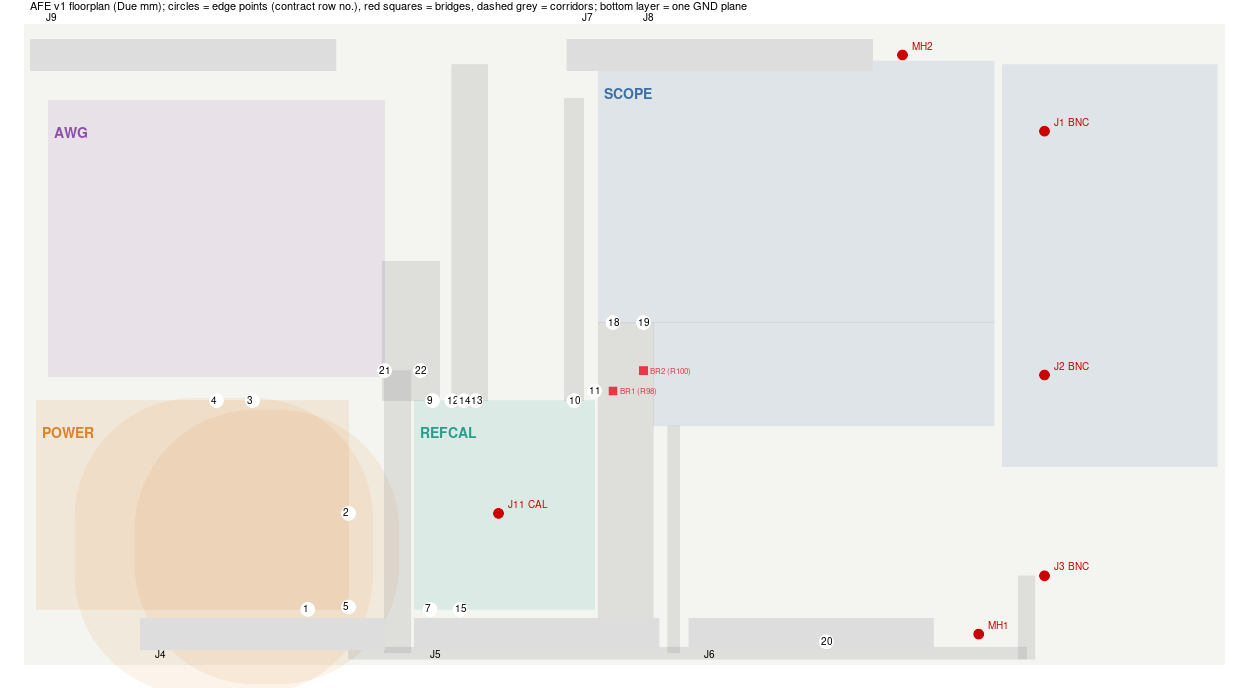
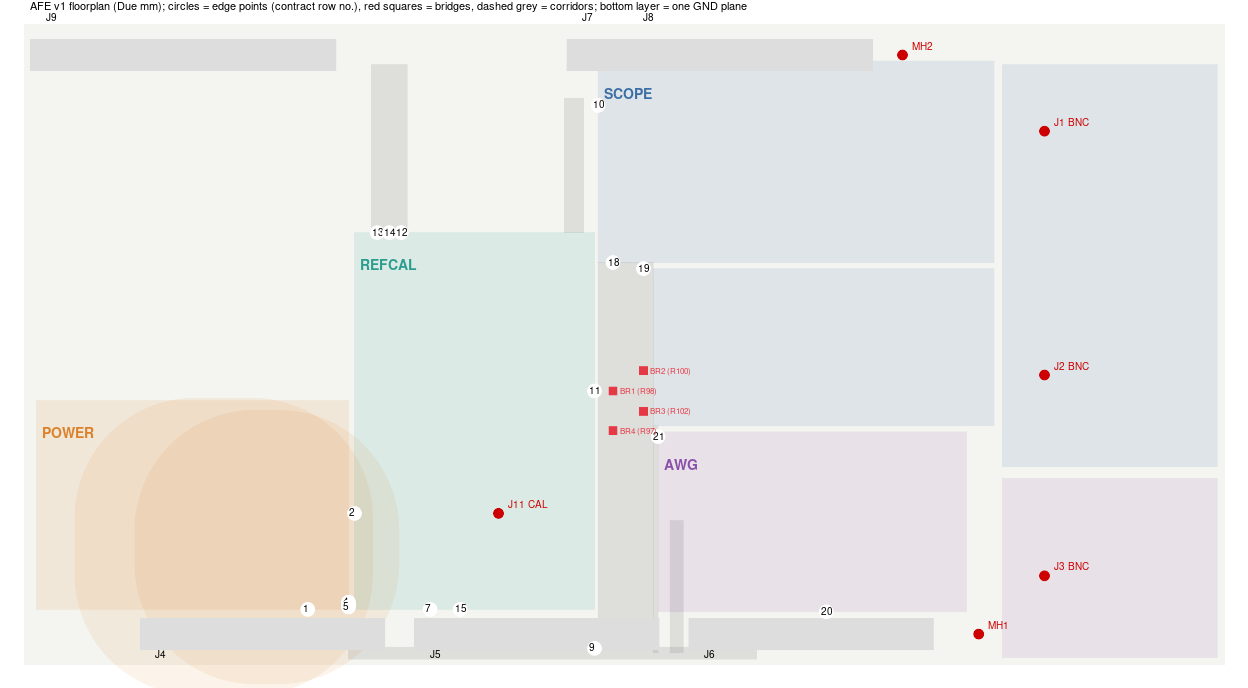
hardware: redo the AFE v1 contract with the AWG east
The spec lead rejected the west AWG: LR-7 keeps the AWG current loop
and its 50 ohm return in its own zone. Back to v2's arrangement: AWG
beside J3, VNEG, +3V3A and the VREF offset branch on the strip lanes
under the pad rows, and four 0603 0R bridges over the A1/A0 lines
(VREF to CH2 and the AWG_BNC sense node), no hop, no 1206.

Claude-Session: https://claude.ai/code/session_01GL7oYDXFNtALxKUhyZb7As

diff --git a/hardware/afe-proto/kicad/floorplan.py b/hardware/afe-proto/kicad/floorplan.py
@@ -13,20 +13,18 @@ X0, X1, Y0, Y1 = 17.0, 117.0, 0.0, 53.34
 # block -> list of fence rectangles (x0, y0, x1, y1); a block agent places and routes only inside its fences
 FENCES = {
     'POWER': [(18.0, 4.6, 44.0, 22.0)],
-    'REFCAL': [(49.5, 4.6, 64.5, 22.0)],
-    'AWG': [(19.0, 24.0, 47.0, 47.0)],
-    'SCOPE': [(64.8, 28.5, 97.8, 50.3), (69.4, 19.9, 97.8, 28.5), (98.5, 16.5, 116.4, 50.0)],
+    'REFCAL': [(44.5, 4.6, 64.5, 36.0)],
+    'SCOPE': [(64.8, 33.5, 97.8, 50.3), (69.4, 19.9, 97.8, 33.0), (98.5, 16.5, 116.4, 50.0)],
+    'AWG': [(69.8, 4.4, 95.5, 19.4), (98.5, 0.6, 116.4, 15.5)],
 }
 # corridors: copper owned by a block that runs outside its fence
 CORRIDORS = {
-    'WALL (SCOPE: A1 x 66.04, A0 x 68.58, y 2.54..38; the two VREF D2 bridges)': (64.8, 2.0, 69.4, 28.5),
-    'STRIP lanes under the ADC/PWM pad rows (y 0.55 AWG_BNC to J3, 0.95 +3V3A to SCOPE, 1.35 DAC0; 0.2 wide, 0.2 gap; pad edge 1.69)': (44.0, 0.45, 100.5, 1.45),
-    'AWG header-gap riser (x 47.6 DAC0, x 48.6 AWG_BNC, y 1.35..24.5)': (47.0, 1.0, 49.2, 24.5),
-    'VREF C lane (REFCAL: x 51.0 north to y 33.0, then west to x 47.0)': (46.8, 22.0, 51.6, 33.6),
-    'I2C/AREF lanes (REFCAL: x 53.0, 54.0, 55.0 north, then west along y 47.5, 48.5, 49.4)': (52.6, 22.0, 55.6, 50.0),
-    'QUIET VREF trunk (REFCAL: x 62.8 north to y 46.6, then east to x 75.8)': (62.0, 22.0, 63.6, 47.2),
-    'SCOPE +3V3A riser (POWER via the strip lane, then x 71.1 north from y 1.0 to y 19.9)': (70.6, 1.0, 71.6, 19.9),
-    'AWG_BNC lane to J3 (AWG via the strip lane y 0.55 east, then x 100.5 north to y 7.4)': (99.8, 0.45, 101.2, 7.4),
+    'WALL (SCOPE: A1 x 66.04, A0 x 68.58, y 2.54..38; the four wall bridges)': (64.8, 2.0, 69.4, 33.5),
+    'STRIP lanes under the ADC/PWM pad rows (POWER, REFCAL: y 0.55 VNEG outermost, 0.95 +3V3A, 1.35 VREF branch C innermost; 0.2 wide, 0.2 gap; pad edge 1.69, lane top 1.45)': (44.0, 0.45, 78.0, 1.45),
+    'AWG riser (x 71.33: the three strip lanes turn north to U3 and the offset filter)': (70.8, 1.0, 71.9, 12.0),
+    'SCOPE +3V3A riser (x 69.6, y 1.0 to 19.9, between the wall and the AWG fence)': (69.4, 1.0, 69.8, 19.9),
+    'I2C/AREF lanes (REFCAL: x 46.4, 47.4, 48.4 north, then west along y 47.5, 48.5, 49.4)': (45.9, 36.0, 48.9, 50.0),
+    'QUIET VREF trunk (REFCAL: x 62.8 north to y 46.6, then east to x 75.8)': (62.0, 36.0, 63.6, 47.2),
 }
 # LR-5: 10 mm from the courtyards of U7 and C31 (bounding boxes from the v1 board, Due mm; courtyard margin included)
 KEEPOUT = [(31.2, 7.5, 36.0, 12.2), (36.2, 8.4, 38.2, 11.2)]
@@ -54,33 +52,34 @@ def row(net, frm, to, pt, lw, bridge, owner, note):
 
 
 row('+5V_DUE', 'EDGE', 'POWER', (40.6, 4.6), 'F 0.3', '', 'POWER', 'J4.5 (40.64, 2.54) north to R27/R26 side (38.1, 6.0) and on to R70')
-row('+3V3A to REFCAL', 'POWER', 'REFCAL', (44.0, 12.6), 'F 0.3', '', 'POWER up to the edge, REFCAL after', 'one trunk east to U8.1 and the ADS (VDD, decoupling, pull-ups)')
-row('+3V3A to AWG', 'POWER', 'AWG', (36.0, 22.0), 'F 0.3', '', 'POWER', 'north from the OUT+ star to U3.8 and its 100 nF (R93 side); own branch')
-row('VNEG', 'POWER', 'AWG', (33.0, 22.0), 'F 0.3', '', 'POWER', 'north from the OUT- star to U3.4 and its 100 nF at the pin')
-row('+3V3A to SCOPE', 'POWER', 'SCOPE', (44.0, 4.8), 'F 0.2, strip lane y 0.95', '', 'POWER up to the edge, SCOPE after', 'lane east under the pad rows, then riser x 71.1 north to the dual V+ and the clamps (SCOPE places a branch to D5/D6.2); no bridge')
+row('+3V3A to REFCAL', 'POWER', 'REFCAL', (44.5, 12.6), 'F 0.3', '', 'POWER up to the edge, REFCAL after', 'one trunk east to U8.1 and the ADS (VDD, decoupling, pull-ups)')
+row('+3V3A to AWG', 'POWER', 'AWG', (44.0, 5.0), 'F 0.2, strip lane y 0.95', '', 'POWER', 'lane east to the AWG riser (x 71.33), U3.8 and its 100 nF; own branch, never touches the quiet branch')
+row('+3V3A to SCOPE', 'POWER', 'SCOPE', (44.0, 5.2), 'F 0.2, strip lane y 0.95 then riser x 69.6', '', 'POWER up to the edge, SCOPE after', 'the same lane, a branch north at x 69.6 between the wall and the AWG fence to the dual V+ and the clamps; no bridge (the alternative is two more bridges at y 24.5)')
+row('VNEG', 'POWER', 'AWG', (44.0, 4.8), 'F 0.2, strip lane y 0.55', '', 'POWER', 'lane east, riser x 71.33, U3.4 and its 100 nF at the pin; TP VNEG')
 row('GND', 'all', 'all', 'plane', 'B.Cu pour, one piece', '', 'integrator', 'every GND pad has its own via; no cut, no bottom signal copper anywhere')
 row('VREF branch A: precision readers', 'REFCAL', 'EDGE', (50.8, 4.6), 'F 0.2', '', 'REFCAL', 'U8 pin 2 to J5.1 (A7 pad, 50.8, 2.54) and the ladder top R50.2; Kelvin from the pin, own copper (LR-8)')
 row('VREF branch B: ADS AIN0', 'REFCAL', 'REFCAL', ('inside', ), 'F 0.2', '', 'REFCAL', 'U8 pin to U9.4 and C26; own copper (LR-8)')
-row('VREF branch C: AWG offset', 'REFCAL', 'AWG', (51.0, 22.0), 'F 0.2', '', 'REFCAL up to the edge, AWG after', 'U8 pin north x 51.0 to y 33, west to R93.1 (offset filter); own copper (LR-8)')
-row('VREF branch D1: scope CH1 leg + sense tie', 'REFCAL', 'SCOPE', (62.8, 22.0), 'F 0.2', '', 'REFCAL up to the edge, SCOPE after', 'CH1 leg R14 and the sense tie R90 (in REFCAL): quiet trunk x 62.8 north, y 46.6 east')
-row('VREF branch D2: scope CH2 leg', 'REFCAL', 'SCOPE', (64.5, 22.8), 'F 0.2', 'BR1 over A1, BR2 over A0', 'REFCAL up to the edge, SCOPE after', 'spur off the quiet trunk (62.8, 22.8) to BR1, BR2, R16.2; separate from the CH1 leg (LR-8)')
-row('AREF', 'REFCAL', 'EDGE', (52.6, 22.0), 'F 0.2', '', 'REFCAL', 'R81.2 north x 52.6, west y 49.4 to J9.8 (23.876, 50.8); unfitted part')
-row('SCL', 'REFCAL', 'EDGE', (54.6, 22.0), 'F 0.2', '', 'REFCAL', 'U9.10 north x 54.6, west y 47.5 to J9.10 (18.796, 50.8)')
-row('SDA', 'REFCAL', 'EDGE', (53.6, 22.0), 'F 0.2', '', 'REFCAL', 'U9.9 north x 53.6, west y 48.5 to J9.9 (21.336, 50.8)')
+row('VREF branch C: AWG offset', 'REFCAL', 'AWG', (64.5, 1.35), 'F 0.2, strip lane y 1.35', '', 'REFCAL up to the edge, AWG after', 'U8 pin to the strip lane, east, riser x 71.33 to R93.1 (offset filter); own copper (LR-8)')
+row('VREF branch D1: scope CH1 leg + sense tie', 'REFCAL', 'SCOPE', (64.8, 46.6), 'F 0.2', '', 'REFCAL up to the edge, SCOPE after', 'CH1 leg R14 and the sense tie R90 (in REFCAL): quiet trunk x 62.8 north, y 46.6 east')
+row('VREF branch D2: scope CH2 leg', 'REFCAL', 'SCOPE', (64.5, 22.8), 'F 0.2', 'BR1 over A1, BR2 over A0', 'REFCAL up to the edge, SCOPE after', 'spur off the quiet trunk (62.8, 22.8) to BR1, BR2, R16.2 (VREF_P); crosses the wall, separate from the CH1 leg row above (LR-8)')
+row('AREF', 'REFCAL', 'EDGE', (48.4, 36.0), 'F 0.2', '', 'REFCAL', 'R81.2 north x 48.4, west y 49.4 to J9.8 (23.876, 50.8); unfitted part')
+row('SCL', 'REFCAL', 'EDGE', (46.4, 36.0), 'F 0.2', '', 'REFCAL', 'U9.10 north x 46.4, west y 47.5 to J9.10 (18.796, 50.8)')
+row('SDA', 'REFCAL', 'EDGE', (47.4, 36.0), 'F 0.2', '', 'REFCAL', 'U9.9 north x 47.4, west y 48.5 to J9.9 (21.336, 50.8)')
 row('TAP1..TAP5', 'EDGE', 'REFCAL', (53.3, 4.6), 'F 0.2', '', 'REFCAL', 'J5.2..J5.6 (x 53.34 .. 63.5) up to the ladder (y 6..8.2); TAP3/TAP4 on to J11 and the ADS')
-row('TAP3 / TAP4 to J11 and the ADS', 'REFCAL', 'REFCAL', ('inside', ), 'F 0.2', '', 'REFCAL', 'short, inside the fence: J11 and U9 stand directly above the ladder; nothing crosses them')
+row('TAP3 / TAP4 to J11 and the ADS', 'REFCAL', 'REFCAL', ('inside', ), 'F 0.2', '', 'REFCAL', 'inside the fence; nothing of another block crosses them')
 row('SNS_B', 'REFCAL', 'REFCAL', ('inside', ), 'F 0.2, sense guard and pair rule', '', 'REFCAL', 'R92 and R90 to J11.2; matched to its pair partner, away from the AWG output')
-row('A1', 'SCOPE', 'EDGE', (66.04, 28.5), 'F 0.2', '', 'SCOPE', 'D5/R55.2 down x 66.04 to J5.7 (66.04, 2.54); no via, top only (LR-4)')
-row('A0', 'SCOPE', 'EDGE', (68.58, 28.5), 'F 0.2', '', 'SCOPE', 'D6/R56.2 down x 68.58 to J5.8 (68.58, 2.54); no via, top only (LR-4)')
-row('DAC0', 'EDGE', 'AWG', (83.82, 1.9), 'F 0.2, strip lane y 1.35', '', 'AWG', 'J6.5 (83.82, 2.54) down to the lane, west to x 47.6, north through the header gap to R54.1 (AWG pocket)')
-row('AWG_BNC to J3', 'AWG', 'EDGE', (47.0, 24.5), 'F 0.2, strip lane y 0.55', '', 'AWG', 'R51/R88 (back termination, in AWG) to x 48.6, south through the header gap, east along the lane to x 100.5, north to J3 (102, 7.4)')
-row('AWG_BNC sense node', 'AWG', 'REFCAL', (50.0, 24.5), 'F 0.2 guard + pair rule', '', 'AWG up to the edge, REFCAL after', 'from R51/R88 east y 25 to x 50.0, south to R7.1; short, no wall crossing')
+row('A1', 'SCOPE', 'EDGE', (66.04, 33.5), 'F 0.2', '', 'SCOPE', 'D5/R55.2 down x 66.04 to J5.7 (66.04, 2.54); no via, top only (LR-4)')
+row('A0', 'SCOPE', 'EDGE', (68.58, 33.0), 'F 0.2', '', 'SCOPE', 'D6/R56.2 down x 68.58 to J5.8 (68.58, 2.54); no via, top only (LR-4)')
+row('DAC0', 'EDGE', 'AWG', (83.82, 4.4), 'F 0.2', '', 'AWG', 'J6.5 (83.82, 2.54) straight up to R54 and pin 5; short')
+row('AWG_BNC (sense node)', 'AWG', 'REFCAL', (69.8, 19.0), 'F 0.2 guard + pair rule', 'BR3 over A0, BR4 over A1', 'AWG up to the edge, REFCAL after', 'from R51/R88 at the BNC to R7.1 across the wall (AWG_I is the island between the bridges)')
 row('AWG supply decoupling parts', 'AWG', 'AWG', ('inside', ), '', '', 'AWG', 'V+ and V- decoupling at pins 8 and 4; INV is a short top trace, Rg2 (R33) straddles the BIN stub as a bridge; no net leaves the pocket except those listed')
 row('SCOPE dual (U1)', 'SCOPE', 'SCOPE', ('inside', ), '', '', 'SCOPE (one agent for both channels)', 'U1 is shared; CH1 and CH2 are labelled on the silk beside its halves, CH2 laid out in CH1\'s pattern, mirrored')
 
 BRIDGES = [  # ref, nets, at (x, y), crosses
     ('BR1 (R98)', 'VREF / VREF_M', (66.04, 22.8), 'the A1 line (x 66.04)'),
-    ('BR2 (R100)', 'VREF_M / VREF_X', (68.58, 24.5), 'the A0 line (x 68.58)'),
+    ('BR2 (R100)', 'VREF_M / VREF_P', (68.58, 24.5), 'the A0 line (x 68.58)'),
+    ('BR3 (R102)', 'AWG_I / AWG_BNC', (68.58, 21.1), 'the A0 line (x 68.58)'),
+    ('BR4 (R97)', 'AWG_S / AWG_I', (66.04, 19.5), 'the A1 line (x 66.04)'),
 ]
 
 COL = {'POWER': '#d9822b', 'REFCAL': '#2a9d8f', 'SCOPE': '#3a6ea5', 'AWG': '#8a4fa8'}
@@ -150,11 +149,12 @@ def md():
         p = f'({at[0]}, {at[1]})' if len(at) == 2 else f'in {at[0]}, to be placed'
         out.append(f'| {ref} | {nets} | {p} | {crosses} |')
     out += ['', 'Notes:',
-            '- v1 moves the AWG to the west half: its VNEG, +3V3A and VREF come from POWER and REFCAL without crossing the A1/A0 wall, so the only wall crossings are the two VREF D2 bridges (BR1, BR2). The price is two long signal lanes under the pad rows (DAC0 in, AWG_BNC out to J3) and one more, +3V3A to SCOPE: three strip lanes, the same count as v2.',
-            '- The 8 x 0603 chain plan of the first fence page is withdrawn: it was for the AWG staying east. R33 (Rg2) in the AWG straddles the BIN stub, so INV needs no hop and no bridge.',
-            '- Keep-out (LR-5) = the courtyards of U7 and C31 inflated by 10 mm; REFCAL starts at x 49.5, 13 mm from C31.',
-            '- Strip lanes: pad edge of J4/J5/J6 is y 1.69 (1.7 mm pads), lane top 1.45, gap 0.24; outermost lane edge y 0.45, 0.45 mm to the outline (check on the board).',
-            '- Test points (one per block key node, on the existing path, no stub on A1/A0): TP A1 and A0 on the SCOPE column, AWG_OUT before R51/R88, +5V_DUE, +5V_F, +3V3A, VNEG, VREF, GND: 9, three new.']
+            '- v2 arrangement (AWG east beside J3), as the spec lead ruled: LR-7 keeps the AWG current loop and the 50 ohm return in its own zone. Four 0603 0R bridges (existing type), no hop, no 1206.',
+            '- The first v1 contract moved the AWG west and is withdrawn: it put the AWG output lane 95 mm past the TAP and A pads.',
+            '- Pad edges of J4/J5/J6 are y 1.69 (1.7 mm pads): inner lane top 1.45, gap 0.24; outer lane edge 0.45 mm to the outline. Check on the v1 board.',
+            '- Keep-out (LR-5) = the courtyards of U7 and C31 inflated by 10 mm. Sensitive copper in REFCAL stays east of x 48.6 between y 9 and y 19.',
+            '- The only +3V3A route to SCOPE with no bridge is the riser at x 69.6, 1.0 mm from A0 (a supply, quiet); the alternative is two more bridges at y 24.5 (to the spec lead).',
+            '- Test points: one per block key node, on the existing path, no stub on A1/A0: A1, A0, AWG_OUT before R51/R88, +5V_DUE, +5V_F, +3V3A, VNEG, VREF, GND = 9, three new.']
     return '\n'.join(out)
 
 

diff --git a/hardware/afe-proto/kicad/floorplan_table.md b/hardware/afe-proto/kicad/floorplan_table.md
@@ -1,38 +1,40 @@
 | # | net | from -> to | edge point (x, y) | layer / width | bridge | owner | note |
 |---|---|---|---|---|---|---|---|
 | 1 | +5V_DUE | EDGE -> POWER | (40.6, 4.6) | F 0.3 |  | POWER | J4.5 (40.64, 2.54) north to R27/R26 side (38.1, 6.0) and on to R70 |
-| 2 | +3V3A to REFCAL | POWER -> REFCAL | (44.0, 12.6) | F 0.3 |  | POWER up to the edge, REFCAL after | one trunk east to U8.1 and the ADS (VDD, decoupling, pull-ups) |
-| 3 | +3V3A to AWG | POWER -> AWG | (36.0, 22.0) | F 0.3 |  | POWER | north from the OUT+ star to U3.8 and its 100 nF (R93 side); own branch |
-| 4 | VNEG | POWER -> AWG | (33.0, 22.0) | F 0.3 |  | POWER | north from the OUT- star to U3.4 and its 100 nF at the pin |
-| 5 | +3V3A to SCOPE | POWER -> SCOPE | (44.0, 4.8) | F 0.2, strip lane y 0.95 |  | POWER up to the edge, SCOPE after | lane east under the pad rows, then riser x 71.1 north to the dual V+ and the clamps (SCOPE places a branch to D5/D6.2); no bridge |
+| 2 | +3V3A to REFCAL | POWER -> REFCAL | (44.5, 12.6) | F 0.3 |  | POWER up to the edge, REFCAL after | one trunk east to U8.1 and the ADS (VDD, decoupling, pull-ups) |
+| 3 | +3V3A to AWG | POWER -> AWG | (44.0, 5.0) | F 0.2, strip lane y 0.95 |  | POWER | lane east to the AWG riser (x 71.33), U3.8 and its 100 nF; own branch, never touches the quiet branch |
+| 4 | +3V3A to SCOPE | POWER -> SCOPE | (44.0, 5.2) | F 0.2, strip lane y 0.95 then riser x 69.6 |  | POWER up to the edge, SCOPE after | the same lane, a branch north at x 69.6 between the wall and the AWG fence to the dual V+ and the clamps; no bridge (the alternative is two more bridges at y 24.5) |
+| 5 | VNEG | POWER -> AWG | (44.0, 4.8) | F 0.2, strip lane y 0.55 |  | POWER | lane east, riser x 71.33, U3.4 and its 100 nF at the pin; TP VNEG |
 | 6 | GND | all -> all | plane | B.Cu pour, one piece |  | integrator | every GND pad has its own via; no cut, no bottom signal copper anywhere |
 | 7 | VREF branch A: precision readers | REFCAL -> EDGE | (50.8, 4.6) | F 0.2 |  | REFCAL | U8 pin 2 to J5.1 (A7 pad, 50.8, 2.54) and the ladder top R50.2; Kelvin from the pin, own copper (LR-8) |
 | 8 | VREF branch B: ADS AIN0 | REFCAL -> REFCAL | inside the fence | F 0.2 |  | REFCAL | U8 pin to U9.4 and C26; own copper (LR-8) |
-| 9 | VREF branch C: AWG offset | REFCAL -> AWG | (51.0, 22.0) | F 0.2 |  | REFCAL up to the edge, AWG after | U8 pin north x 51.0 to y 33, west to R93.1 (offset filter); own copper (LR-8) |
-| 10 | VREF branch D1: scope CH1 leg + sense tie | REFCAL -> SCOPE | (62.8, 22.0) | F 0.2 |  | REFCAL up to the edge, SCOPE after | CH1 leg R14 and the sense tie R90 (in REFCAL): quiet trunk x 62.8 north, y 46.6 east |
-| 11 | VREF branch D2: scope CH2 leg | REFCAL -> SCOPE | (64.5, 22.8) | F 0.2 | BR1 over A1, BR2 over A0 | REFCAL up to the edge, SCOPE after | spur off the quiet trunk (62.8, 22.8) to BR1, BR2, R16.2; separate from the CH1 leg (LR-8) |
-| 12 | AREF | REFCAL -> EDGE | (52.6, 22.0) | F 0.2 |  | REFCAL | R81.2 north x 52.6, west y 49.4 to J9.8 (23.876, 50.8); unfitted part |
-| 13 | SCL | REFCAL -> EDGE | (54.6, 22.0) | F 0.2 |  | REFCAL | U9.10 north x 54.6, west y 47.5 to J9.10 (18.796, 50.8) |
-| 14 | SDA | REFCAL -> EDGE | (53.6, 22.0) | F 0.2 |  | REFCAL | U9.9 north x 53.6, west y 48.5 to J9.9 (21.336, 50.8) |
+| 9 | VREF branch C: AWG offset | REFCAL -> AWG | (64.5, 1.35) | F 0.2, strip lane y 1.35 |  | REFCAL up to the edge, AWG after | U8 pin to the strip lane, east, riser x 71.33 to R93.1 (offset filter); own copper (LR-8) |
+| 10 | VREF branch D1: scope CH1 leg + sense tie | REFCAL -> SCOPE | (64.8, 46.6) | F 0.2 |  | REFCAL up to the edge, SCOPE after | CH1 leg R14 and the sense tie R90 (in REFCAL): quiet trunk x 62.8 north, y 46.6 east |
+| 11 | VREF branch D2: scope CH2 leg | REFCAL -> SCOPE | (64.5, 22.8) | F 0.2 | BR1 over A1, BR2 over A0 | REFCAL up to the edge, SCOPE after | spur off the quiet trunk (62.8, 22.8) to BR1, BR2, R16.2 (VREF_P); crosses the wall, separate from the CH1 leg row above (LR-8) |
+| 12 | AREF | REFCAL -> EDGE | (48.4, 36.0) | F 0.2 |  | REFCAL | R81.2 north x 48.4, west y 49.4 to J9.8 (23.876, 50.8); unfitted part |
+| 13 | SCL | REFCAL -> EDGE | (46.4, 36.0) | F 0.2 |  | REFCAL | U9.10 north x 46.4, west y 47.5 to J9.10 (18.796, 50.8) |
+| 14 | SDA | REFCAL -> EDGE | (47.4, 36.0) | F 0.2 |  | REFCAL | U9.9 north x 47.4, west y 48.5 to J9.9 (21.336, 50.8) |
 | 15 | TAP1..TAP5 | EDGE -> REFCAL | (53.3, 4.6) | F 0.2 |  | REFCAL | J5.2..J5.6 (x 53.34 .. 63.5) up to the ladder (y 6..8.2); TAP3/TAP4 on to J11 and the ADS |
-| 16 | TAP3 / TAP4 to J11 and the ADS | REFCAL -> REFCAL | inside the fence | F 0.2 |  | REFCAL | short, inside the fence: J11 and U9 stand directly above the ladder; nothing crosses them |
+| 16 | TAP3 / TAP4 to J11 and the ADS | REFCAL -> REFCAL | inside the fence | F 0.2 |  | REFCAL | inside the fence; nothing of another block crosses them |
 | 17 | SNS_B | REFCAL -> REFCAL | inside the fence | F 0.2, sense guard and pair rule |  | REFCAL | R92 and R90 to J11.2; matched to its pair partner, away from the AWG output |
-| 18 | A1 | SCOPE -> EDGE | (66.04, 28.5) | F 0.2 |  | SCOPE | D5/R55.2 down x 66.04 to J5.7 (66.04, 2.54); no via, top only (LR-4) |
-| 19 | A0 | SCOPE -> EDGE | (68.58, 28.5) | F 0.2 |  | SCOPE | D6/R56.2 down x 68.58 to J5.8 (68.58, 2.54); no via, top only (LR-4) |
-| 20 | DAC0 | EDGE -> AWG | (83.82, 1.9) | F 0.2, strip lane y 1.35 |  | AWG | J6.5 (83.82, 2.54) down to the lane, west to x 47.6, north through the header gap to R54.1 (AWG pocket) |
-| 21 | AWG_BNC to J3 | AWG -> EDGE | (47.0, 24.5) | F 0.2, strip lane y 0.55 |  | AWG | R51/R88 (back termination, in AWG) to x 48.6, south through the header gap, east along the lane to x 100.5, north to J3 (102, 7.4) |
-| 22 | AWG_BNC sense node | AWG -> REFCAL | (50.0, 24.5) | F 0.2 guard + pair rule |  | AWG up to the edge, REFCAL after | from R51/R88 east y 25 to x 50.0, south to R7.1; short, no wall crossing |
-| 23 | AWG supply decoupling parts | AWG -> AWG | inside the fence |  |  | AWG | V+ and V- decoupling at pins 8 and 4; INV is a short top trace, Rg2 (R33) straddles the BIN stub as a bridge; no net leaves the pocket except those listed |
-| 24 | SCOPE dual (U1) | SCOPE -> SCOPE | inside the fence |  |  | SCOPE (one agent for both channels) | U1 is shared; CH1 and CH2 are labelled on the silk beside its halves, CH2 laid out in CH1's pattern, mirrored |
+| 18 | A1 | SCOPE -> EDGE | (66.04, 33.5) | F 0.2 |  | SCOPE | D5/R55.2 down x 66.04 to J5.7 (66.04, 2.54); no via, top only (LR-4) |
+| 19 | A0 | SCOPE -> EDGE | (68.58, 33.0) | F 0.2 |  | SCOPE | D6/R56.2 down x 68.58 to J5.8 (68.58, 2.54); no via, top only (LR-4) |
+| 20 | DAC0 | EDGE -> AWG | (83.82, 4.4) | F 0.2 |  | AWG | J6.5 (83.82, 2.54) straight up to R54 and pin 5; short |
+| 21 | AWG_BNC (sense node) | AWG -> REFCAL | (69.8, 19.0) | F 0.2 guard + pair rule | BR3 over A0, BR4 over A1 | AWG up to the edge, REFCAL after | from R51/R88 at the BNC to R7.1 across the wall (AWG_I is the island between the bridges) |
+| 22 | AWG supply decoupling parts | AWG -> AWG | inside the fence |  |  | AWG | V+ and V- decoupling at pins 8 and 4; INV is a short top trace, Rg2 (R33) straddles the BIN stub as a bridge; no net leaves the pocket except those listed |
+| 23 | SCOPE dual (U1) | SCOPE -> SCOPE | inside the fence |  |  | SCOPE (one agent for both channels) | U1 is shared; CH1 and CH2 are labelled on the silk beside its halves, CH2 laid out in CH1's pattern, mirrored |
 
 | bridge | nets split | at (x, y) | crosses |
 |---|---|---|---|
 | BR1 (R98) | VREF / VREF_M | (66.04, 22.8) | the A1 line (x 66.04) |
-| BR2 (R100) | VREF_M / VREF_X | (68.58, 24.5) | the A0 line (x 68.58) |
+| BR2 (R100) | VREF_M / VREF_P | (68.58, 24.5) | the A0 line (x 68.58) |
+| BR3 (R102) | AWG_I / AWG_BNC | (68.58, 21.1) | the A0 line (x 68.58) |
+| BR4 (R97) | AWG_S / AWG_I | (66.04, 19.5) | the A1 line (x 66.04) |
 
 Notes:
-- v1 moves the AWG to the west half: its VNEG, +3V3A and VREF come from POWER and REFCAL without crossing the A1/A0 wall, so the only wall crossings are the two VREF D2 bridges (BR1, BR2). The price is two long signal lanes under the pad rows (DAC0 in, AWG_BNC out to J3) and one more, +3V3A to SCOPE: three strip lanes, the same count as v2.
-- The 8 x 0603 chain plan of the first fence page is withdrawn: it was for the AWG staying east. R33 (Rg2) in the AWG straddles the BIN stub, so INV needs no hop and no bridge.
-- Keep-out (LR-5) = the courtyards of U7 and C31 inflated by 10 mm; REFCAL starts at x 49.5, 13 mm from C31.
-- Strip lanes: pad edge of J4/J5/J6 is y 1.69 (1.7 mm pads), lane top 1.45, gap 0.24; outermost lane edge y 0.45, 0.45 mm to the outline (check on the board).
-- Test points (one per block key node, on the existing path, no stub on A1/A0): TP A1 and A0 on the SCOPE column, AWG_OUT before R51/R88, +5V_DUE, +5V_F, +3V3A, VNEG, VREF, GND: 9, three new.
+- v2 arrangement (AWG east beside J3), as the spec lead ruled: LR-7 keeps the AWG current loop and the 50 ohm return in its own zone. Four 0603 0R bridges (existing type), no hop, no 1206.
+- The first v1 contract moved the AWG west and is withdrawn: it put the AWG output lane 95 mm past the TAP and A pads.
+- Pad edges of J4/J5/J6 are y 1.69 (1.7 mm pads): inner lane top 1.45, gap 0.24; outer lane edge 0.45 mm to the outline. Check on the v1 board.
+- Keep-out (LR-5) = the courtyards of U7 and C31 inflated by 10 mm. Sensitive copper in REFCAL stays east of x 48.6 between y 9 and y 19.
+- The only +3V3A route to SCOPE with no bridge is the riser at x 69.6, 1.0 mm from A0 (a supply, quiet); the alternative is two more bridges at y 24.5 (to the spec lead).
+- Test points: one per block key node, on the existing path, no stub on A1/A0: A1, A0, AWG_OUT before R51/R88, +5V_DUE, +5V_F, +3V3A, VNEG, VREF, GND = 9, three new.
